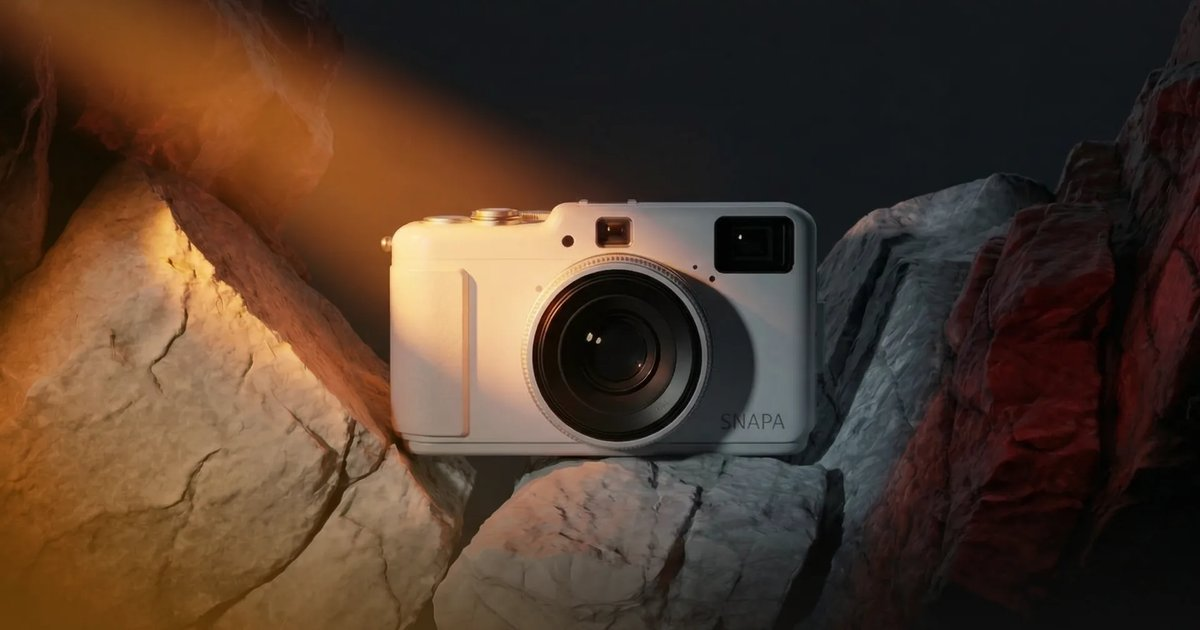
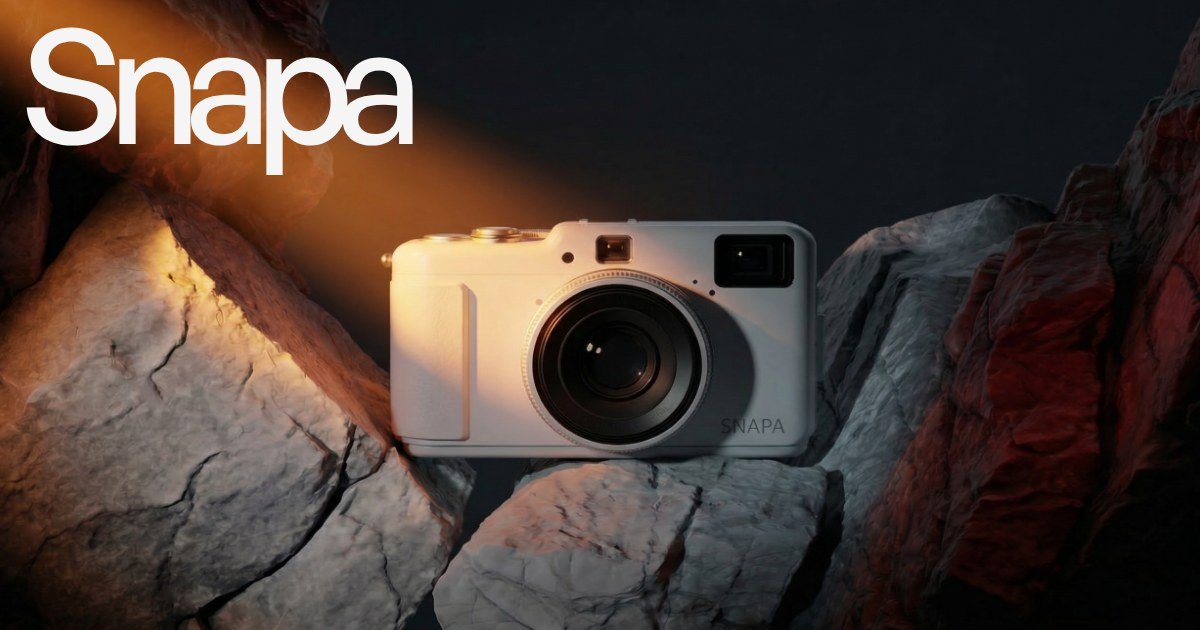
OG image: Opengraph frame from Figma (wordmark over the Hero shot)

diff --git a/index.html b/index.html
@@ -16,7 +16,7 @@
          редиректом. Абсолютные URL обязательны для canonical и превью. -->
     <link rel="canonical" href="https://artkdesigner.github.io/snapa-study/" />
     <!-- Превью ссылки в мессенджерах и соцсетях (public/og-image.jpg —
-         кадр Hero 1200×630, JPEG: WebP понимают не все) -->
+         фрейм Opengraph из Figma 1200×630, JPEG: WebP понимают не все) -->
     <meta property="og:type" content="website" />
     <meta property="og:site_name" content="Snapa" />
     <meta
@@ -36,7 +36,7 @@
     <meta property="og:image:height" content="630" />
     <meta
       property="og:image:alt"
-      content="White Snapa instant camera on rocks in warm light"
+      content="Snapa wordmark over a white instant camera on rocks in warm light"
     />
     <meta property="og:locale" content="en_US" />
     <meta name="twitter:card" content="summary_large_image" />
